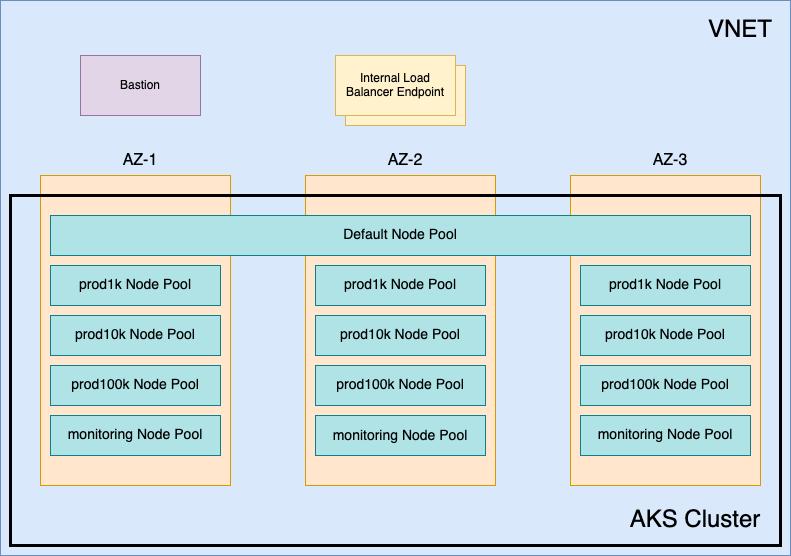
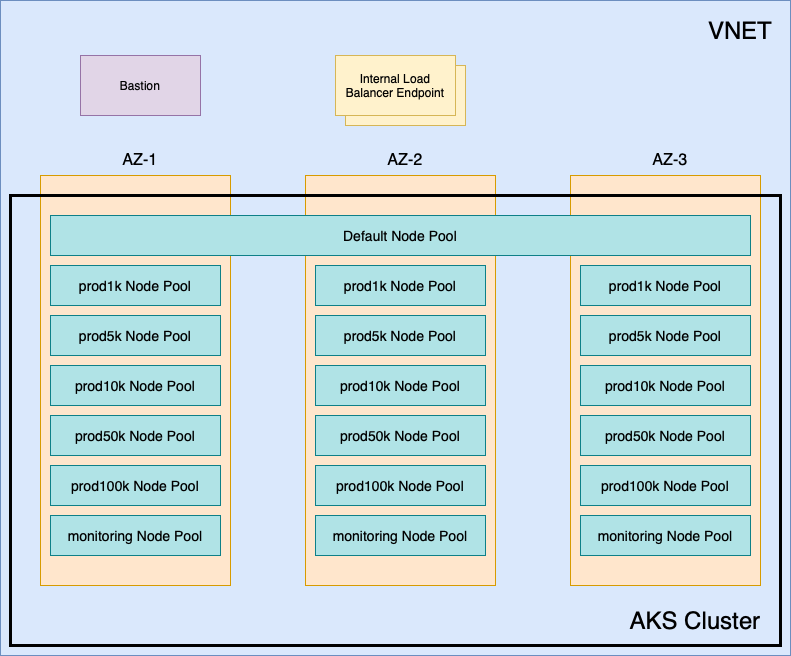
For AKS and EKS add 5k and 50k node groups and update instance types (#102)

diff --git a/testing/eks/create_cluster_test.go b/testing/eks/create_cluster_test.go
@@ -33,9 +33,15 @@ func testCluster(t *testing.T, configOptions *terraform.Options) {
 	common.TestServiceClassWithValues(t, kubeconfigPath, "prod1k", "gp3", []string{"./service-annotations.yaml"}, 1, true)
 	common.TestServiceClassWithValues(t, kubeconfigPath, "prod1k", "gp3", []string{"./service-annotations.yaml"}, 2, false)
 
+	common.TestServiceClassWithValues(t, kubeconfigPath, "prod5k", "gp3", []string{"./service-annotations.yaml"}, 1, true)
+	common.TestServiceClassWithValues(t, kubeconfigPath, "prod5k", "gp3", []string{"./service-annotations.yaml"}, 1, false)
+
 	common.TestServiceClassWithValues(t, kubeconfigPath, "prod10k", "gp2-test", []string{"./service-annotations.yaml"}, 1, true)
 	common.TestServiceClassWithValues(t, kubeconfigPath, "prod10k", "gp3", []string{"./service-annotations.yaml"}, 1, true)
 	common.TestServiceClassWithValues(t, kubeconfigPath, "prod10k", "gp3", []string{"./service-annotations.yaml"}, 2, false)
+
+	common.TestServiceClassWithValues(t, kubeconfigPath, "prod50k", "gp3", []string{"./service-annotations.yaml"}, 1, true)
+	common.TestServiceClassWithValues(t, kubeconfigPath, "prod50k", "gp3", []string{"./service-annotations.yaml"}, 1, false)
 
 	common.TestServiceClassWithValues(t, kubeconfigPath, "prod100k", "gp2-test", []string{"./service-annotations.yaml"}, 1, false)
 

diff --git a/testing/aks/create_cluster_test.go b/testing/aks/create_cluster_test.go
@@ -22,8 +22,12 @@ func testCluster(t *testing.T, configOptions *terraform.Options) {
 	common.TestHighAvailableServiceClass(t, kubeconfigPath, "prod1k", "managed-premium-zoned", 1)
 	common.TestStandaloneServiceClass(t, kubeconfigPath, "prod1k", "managed-premium-zoned", 2)
 
+	common.TestStandaloneServiceClass(t, kubeconfigPath, "prod5k", "managed-premium-zoned", 2)
+
 	common.TestHighAvailableServiceClass(t, kubeconfigPath, "prod10k", "managed-premium-zoned", 1)
 	common.TestStandaloneServiceClass(t, kubeconfigPath, "prod10k", "managed-premium-zoned", 2)
+
+	common.TestStandaloneServiceClass(t, kubeconfigPath, "prod50k", "managed-premium-zoned", 1)
 
 	common.TestStandaloneServiceClass(t, kubeconfigPath, "prod100k", "managed-premium-zoned", 1)
 
@@ -162,7 +166,7 @@ func TestTerraformAksClusterExternalNetwork(t *testing.T) {
 	subnetId := terraform.Output(t, networkOptions, "subnet_id")
 	routeTableId := terraform.Output(t, networkOptions, "route_table_id")
 
-	underTestPath, _ := common.CopyTerraform(t, "../../aks/terraform")
+	underTestPath, _ := common.CopyTerraform(t, "../../aks/terraform", clusterSuffix)
 	underTestOptions := terraform.WithDefaultRetryableErrors(t, &terraform.Options{
 		TerraformDir: underTestPath,
 		NoColor:      true,

diff --git a/aks/README.md b/aks/README.md
@@ -41,7 +41,7 @@ The cluster has the following node pools:
 
 ##### Default (System)
 
-The default (system) node pool spans all three availability zones. By default there are two worker nodes in this pool. It uses the `Standard_D2s_v3` VM size. All the standard Kubernetes services as well as PubSub+ Mission Control Agent run on these worker nodes.
+The default (system) node pool spans all three availability zones. By default there are two worker nodes in this pool. It uses the `Standard_D2ds_v5` VM size. All the standard Kubernetes services as well as PubSub+ Mission Control Agent run on these worker nodes.
 
 ##### Event Broker Services
 
@@ -51,12 +51,14 @@ These node pools are engineered to support a 1:1 ratio of event broker service p
 
 The VM sizes, labels, and taints for each event broker service node pool are as follows:
 
-| Name       | VM size         | Labels                                      | Taints                                                          |
-|------------|-----------------|---------------------------------------------|-----------------------------------------------------------------|
-| prod1k     | Standard_E2s_v3 | nodeType:messaging<br>serviceClass:prod1k   | nodeType:messaging:NoExecute<br>serviceClass:prod1k:NoExecute   |
-| prod10k    | Standard_E4s_v3 | nodeType:messaging<br>serviceClass:prod10k  | nodeType:messaging:NoExecute<br>serviceClass:prod10k:NoExecute  |
-| prod100k   | Standard_E8s_v3 | nodeType:messaging<br>serviceClass:prod100k | nodeType:messaging:NoExecute<br>serviceClass:prod100k:NoExecute |
-| monitoring | Standard_D2s_v3 | nodeType:monitoring                         | nodeType:monitoring:NoExecute                                   |
+| Name       | VM size           | Labels                                      | Taints                                                          |
+|------------|-------------------|---------------------------------------------|-----------------------------------------------------------------|
+| prod1k     | Standard_E2ds_v5  | nodeType:messaging<br>serviceClass:prod1k   | nodeType:messaging:NoExecute<br>serviceClass:prod1k:NoExecute   |
+| prod5k     | Standard_E4ds_v5  | nodeType:messaging<br>serviceClass:prod5k   | nodeType:messaging:NoExecute<br>serviceClass:prod5k:NoExecute   |
+| prod10k    | Standard_E4bds_v5  | nodeType:messaging<br>serviceClass:prod10k  | nodeType:messaging:NoExecute<br>serviceClass:prod10k:NoExecute  |
+| prod50k    | Standard_E8bds_v5 | nodeType:messaging<br>serviceClass:prod50k  | nodeType:messaging:NoExecute<br>serviceClass:prod50k:NoExecute  |
+| prod100k   | Standard_E8bds_v5 | nodeType:messaging<br>serviceClass:prod100k | nodeType:messaging:NoExecute<br>serviceClass:prod100k:NoExecute |
+| monitoring | Standard_D2ds_v5  | nodeType:monitoring                         | nodeType:monitoring:NoExecute                                   |
 
 ### Access<a name="aks-access"></a>
 

diff --git a/eks/README.md b/eks/README.md
@@ -69,12 +69,16 @@ These node groups are engineered to support a 1:1 ratio of the broker pod to wor
 
 The instance types, labels, and taints for each node group for event broker services are shown in the following table:
 
-| Name       | Instance type | Labels                                           | Taints                                                               |
-|------------|---------------|--------------------------------------------------|----------------------------------------------------------------------|
-| prod1k     | r5.large      | `nodeType:messaging`<br/>`serviceClass:prod1k`   | `nodeType:messaging:NoExecute`<br/>`serviceClass:prod1k:NoExecute`   |
-| prod10k    | r5.xlarge     | `nodeType:messaging`<br/>`serviceClass:prod10k`  | `nodeType:messaging:NoExecute`<br/>`serviceClass:prod10k:NoExecute`  |
-| prod100k   | r5.2xlarge    | `nodeType:messaging`<br/>`serviceClass:prod100k` | `nodeType:messaging:NoExecute`<br/>`serviceClass:prod100k:NoExecute` |
-| monitoring | t3.medium     | `nodeType:monitoring`                            | nodeType:monitoring:NoExecute                                        |
+| Name       | Instance type   | Labels                                           | Taints                                                               |
+|------------|-----------------|--------------------------------------------------|----------------------------------------------------------------------|
+| prod1k     | r5.large        | `nodeType:messaging`<br/>`serviceClass:prod1k`   | `nodeType:messaging:NoExecute`<br/>`serviceClass:prod1k:NoExecute`   |
+| prod5k     | r5.xlarge       | `nodeType:messaging`<br/>`serviceClass:prod5k`   | `nodeType:messaging:NoExecute`<br/>`serviceClass:prod5k:NoExecute`   |
+| prod10k    | r6in.xlarge     | `nodeType:messaging`<br/>`serviceClass:prod10k`  | `nodeType:messaging:NoExecute`<br/>`serviceClass:prod10k:NoExecute`  |
+| prod50k    | r6in.2xlarge    | `nodeType:messaging`<br/>`serviceClass:prod50k`  | `nodeType:messaging:NoExecute`<br/>`serviceClass:prod50k:NoExecute`  |
+| prod100k   | r6in.4xlarge    | `nodeType:messaging`<br/>`serviceClass:prod100k` | `nodeType:messaging:NoExecute`<br/>`serviceClass:prod100k:NoExecute` |
+| monitoring | t3.medium       | `nodeType:monitoring`                            | nodeType:monitoring:NoExecute                                        |
+
+Note: the instance type family `r6in` is not available in certain regions. Consult the AWS documentation to ensure the region you specify is available for use.
 
 #### Add-ons + Supporting Services <a name="eks-addon"></a>
 
